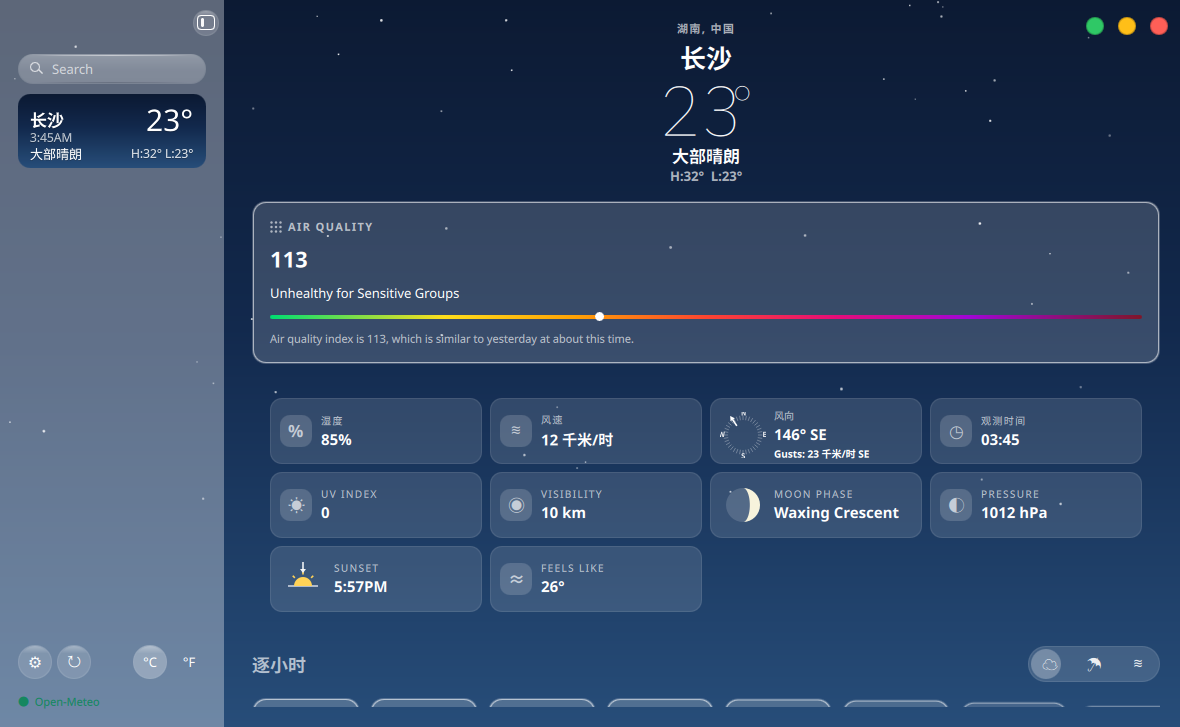
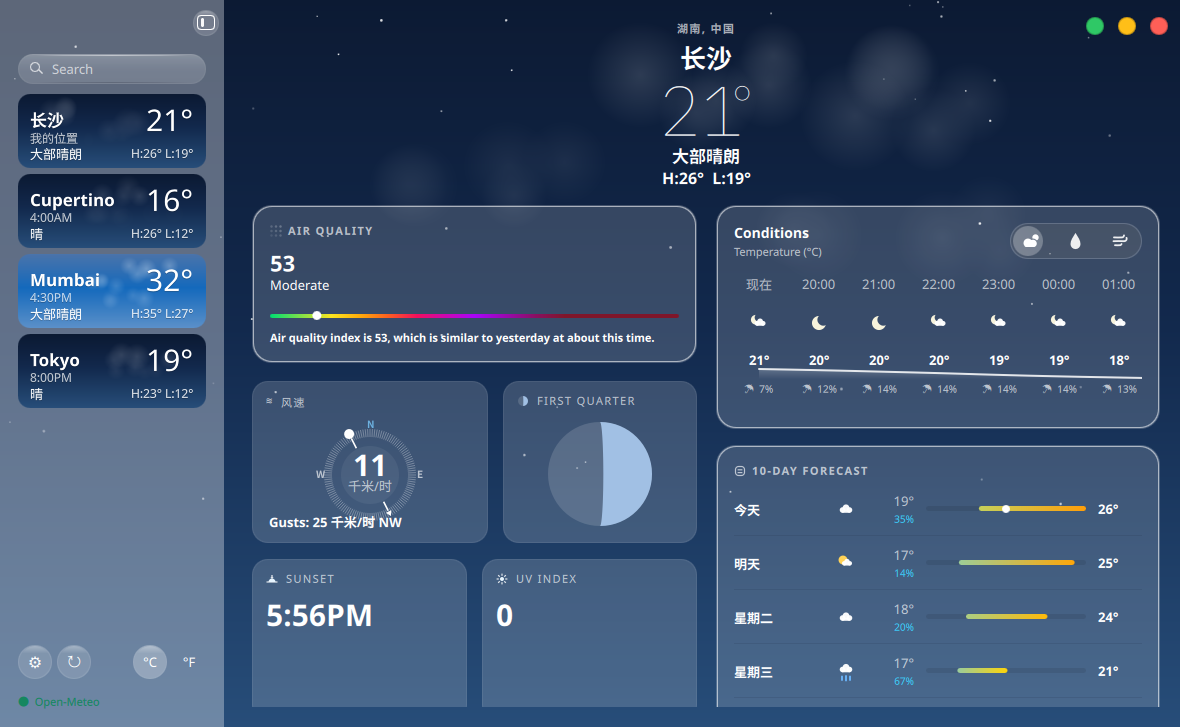
docs: round 55 进度与截图

diff --git a/docs/ui-weather/LEDGER.md b/docs/ui-weather/LEDGER.md
@@ -4,6 +4,9 @@
 参考实测色（814×498 主图采样）：天空 `#2961a7→#1469bc→#538ec9`（上→下，含云照片）；Conditions 卡 `#0057b2`；hero 文本 `#ffffff`；10天条渐变 青→黄→橙。
 
 ## 已改
+- **hero H·L 行字号与颜色贴参考（本轮，前端，零 Go/C++/shared/翻译改动，巡检轮新发现）**：巡检截图（tmp/shots/patrol-1792325190.png 过体检闸 ✅ 1180×727，dev env + KOS_SCREENSHOT_DELAY_MS=2500）对照 ref-main Pillow 行带实测（ref 天空底 lum ~95-110，thr190 干净分离）——ref H·L 行 ink **8px**（y168-175）、墨均值 **(224,230,239)** 与条件行 (232,237,243) 同白系（hero 仅顶部小标签 muted (202,210,223)）；我方 H·L ink 9px（×1.46 应 ~11.7）、峰值 (173,179,190) 灰调（`skyTextMuted` 白@0.66）。`apps/weather/qml/Main.qml:1608` color `skyTextMuted`→`skyText`；:1612 `font.pixelSize: 13`→`16`（注释标明实测依据）；topMargin -3 与其余属性零改动。
+  **实测**（本轮二进制截图 tmp/shots/herohl-1792325385.png 过体检闸 ✅ 1180×727）：H·L ink 173-183 = **11px**（ref 8×1.46≈11.7 命中）；峰值 **(255,255,255)**、均值 (219,229,227) 与 ref (224,230,239) 同白族；条件行 ink 148-163 零位移；条件→H·L ink gap 10px vs 目标 9（1px 内，不再动）。
+  **回归**（vs 改前 patrol-1792325190，2px 步进 diff>24）：H·L 行区外 11831 采样变化——根因是 **H·L 行盒变高 +4px 把 scroll content 整体下推**（AQ 卡顶 201→205、10 天卡顶 441→445 实测），非无关回归；下移方向与 ref 一致（见仍差 0e：ref H·L 墨底→AQ 卡顶 30px@814×1.46≈44px，我方改前 21/改后 22，仍偏紧）。测试 Qt 6/6 绿、go test -count=1 ok；qmllint 0 error（151 warning 行）。无动效改动，无帧差义务。
 - **10 天行降水 % 从图标列移到低温列正下方（本轮，前端，零 Go/C++/shared/翻译改动，巡检轮新发现）**：对照 tile-10day（iPad 原生切片）实测——参考 Fri 行低温 "54°" 墨 x155-177、其下 "50%" 墨 x150-181（**同列近居中**），且垂直方向 temp+% 整块（y242-281，中心 261.5）对齐星期名中心（y257-268，中心 262.5），无 % 的 Thu 行 temp（y188-199）与星期名（y184-196）直接对齐；ref-main 中 % 同样在低温列下。我方 % 此前放在图标 Column 内（图标下方）——错一列。`apps/weather/qml/Main.qml:3142-3178`：% Label 移出图标 Column（图标列只剩 WeatherIcon）；低温 Label 包入 `Column { Layout.preferredWidth: 44; spacing: 2 }`，低温 `width: 44` 属性逐字保留，% Label `width: 44` AlignRight 同轴落下（color #3dcaf8 / 10px / visible>0 / Accessible.name 原样），注释标明 tile-10day 实测依据；其余零改动。
   **实测**（本轮二进制截图 tmp/shots/pctmove-1792324951.png 过体检闸 ✅ 1180×727，dev env + KOS_SCREENSHOT_DELAY_MS=2500）：4 行 %（35/14/20/67%）全部落在各自低温正下方，% 右缘 x913 vs 低温右缘 x915（≤2px 同轴）；图标单列后垂直居中于行；目视 /tmp/z-10day-new.png 与 tile-10day 结构同构。
   **回归**（vs 改前 patrol-1792324637，2px 步进 diff>24）：变化 480 采样，**470 落 10 天行区 (x715-1160 × y470-700)**（% 挪列+图标居中本体），区外仅 10 稀疏采样（星空/时钟已知噪声族，含 Conditions 卡 ☂ 行 2 个 AA 点），整窗 MAE **0.185**——hero/侧栏/瓦片/Conditions 零结构位移。qmllint 0 error（仅 1537 行既有 warning）。测试 Qt 6/6 绿、go test ok。本轮无动效改动，无帧差义务。
@@ -355,6 +358,7 @@
 ## 仍差（按视觉冲击排序）
 0d. ~~**侧栏选中卡副行：参考首卡（选中=My Location 城）副行是 "My Location"，我方首卡仍显示当地时间**~~（**已做**，见已改"侧栏选中卡副行 My Location"——选中卡显示"我的位置"，未选卡维持当地时间，截图 1792322080 实测逐项一致）。
 6. ~~侧栏只有 1 个城市时卡下方大片空白（参考有多城填满）；无数据可解，仅记录~~（**多城已实拍验证收口数据侧**，2026-10-18 多城轮：dev state 加 Cupertino/Mumbai/Tokyo 三城 + 强制刷新取到 summary，截图 1792321838 实拍 4 城卡正确渲染——各城当地时区时间（4:00AM/4:30PM/8:00PM）、温度、H·L、Mumbai 昼卡云纹理、选中卡在顶，均正确；卡区 y95-410 填满后下方空白随城数收缩，系数据量问题非 bug。生产单城空白维持"仅记录"）。
+0e. **内容区顶部节奏整体偏紧（本轮巡检发现，结构性，未动，视觉冲击高于其余低冲击残差）**：ref hero 顶部小标签 ink 顶 **74/498=14.9%** 窗高（按 LEDGER 通行 ×1.46=727/498 窗高比折算 ≈**108px**@我方窗），我方 hero label ink 顶 **y24=3.3%**——hero 顶起始偏高 ~84px；且 ref H·L 墨底→AQ 卡顶 **30px@814×1.46≈44px**，我方 **22px**——hero 下方到卡片区也偏紧 ~22px。两个 knob（内容区顶 padding、hero→卡片 gap）需一起调；牵动整列卡片下移 ~84-106px（主区是 Flickable 可滚出，无裁切风险；与「内容区四周留 20px」裁定只增不减不冲突），compact 窄窗需同步复测。注：×1.46 折算沿用既有轮口径（若 ref-main 实为 1x 逻辑分辨率则目标应为 74px 定值，拿不准按比例口径先做，实拍后按观感复核）。
 0c. ~~**dailyCard（10 天卡）间歇性不渲染**~~（**已收口，见已改首条——根因是 `--screenshot` 固定 650ms 抓帧与 socket 异步数据到达的竞态，非布局 bug**；探针实证 dailyCard 代码健康（colImpl 0→401 异步、impl 437=row 值+padding 36、row/col 1/1 正确），padding 两行被探针实验排除嫌疑。**以后轮验证截图一律加 `KOS_SCREENSHOT_DELAY_MS=2500`**，遇"卡缺失"帧先加延迟重拍再怀疑布局）。
 0. **主区版式：参考是双列卡片 masonry（步 a+c 已完成，步 b 第一半=结构迁入已完成，见已改）**：ref-main（814×498）实测内容区两列——左列 AQ 卡（半宽）+ WIND/MOON PHASE 大方卡并排 + SUNSET/UV INDEX 并排，右列 Conditions 卡（含逐小时）+ 10 天卡。**步 a 已完成**（AQ+Conditions 并排两列等宽、顶对齐、列缝 ~19px）；**步 c 已完成**（10 天卡入右列）；**步 b 第一半已完成**（瓦片区入左列 AQ 下方 2 列、AQ→瓦顶 20px 精确、86px 天窗消除，见已改）。**步 b 第二半进行中（瓦片形态改参考大方卡）：WIND 卡已完成**（见已改——罗盘居中+速度环心+Gusts 底行，卡高 162 精确、数字字形 21px vs 目标 22）；**月相卡已完成**（见已改——头部相位名 caps+中央大月亮 d104，162px 高，WIND/月相对半并排 234/19/190 实测 vs 目标 235/15/193，缝 +4px 残差）；**SUNSET 卡已完成**（见已改首条——头部 glyph+SUNSET caps+左对齐大号时间 30px，162px 高、全宽跨 2 列中间态，缝 17px 精确、墨顶 +44 精确）。**UV 大方卡已完成**（见已改首条——SUNSET/UV RowLayout 等分 214/15/214，实测 213/17/213 等宽，大数字 30px ink 21px 与 SUNSET 同高；旧 66px UV 瓦删除）。**步 b 第二半至此收口：四张参考大方卡（WIND/月相/SUNSET/UV）全部成形**。剩余：湿度/观测时间/FEELS LIKE/PRESSURE/VISIBILITY 参考无对应卡，按 Apple 惯例落位——**折叠线下回流已实拍复核收口（见已改首条）**：VISIBILITY/PRESSURE 成对、FEELS LIKE 独占一格（右侧空格是否拉满待裁定）；compact 单列顺序变化（现 WIND+月相→SUNSET+UV 对半→湿度/观测时间→VISIBILITY/PRESSURE→FEELS LIKE→Conditions→10 天）**已实拍复核收口**（见已改首条——760 窄窗两 probe 实拍逐项一致、无重叠无裁切）；空态半宽**已实拍复核收口**（见已改"空态文字可读性修复"条——半宽居中渲染健康，顺带修掉标题近黑不可读缺陷）。残差：a) ~~Conditions 半宽下逐小时可见 ~3.5 列 vs ref 半宽 6 列~~（**已做**，见已改"逐小时列密度校准"——列距 60px 精确、可见 7 列）。
 0b. ~~**AQ 卡→下方瓦片区垂直间距 vs 目标 20px**~~（**已做**，见已改"AQ 卡→瓦片区间距 36→20px"；勘误：上轮记载"45px"与本轮复测不符——本轮新鲜截图 1792302298 同口径描边-描边实测 **36px**（AQ 底描边 y357 → 瓦顶描边 y393），45 系上轮口径/截图差异，本轮以 36 为准收敛 16px。归因拆清：content spacing 16 + 透明包裹卡 conditionsCard padding round(18×densityScale)≈20 = 36。）
